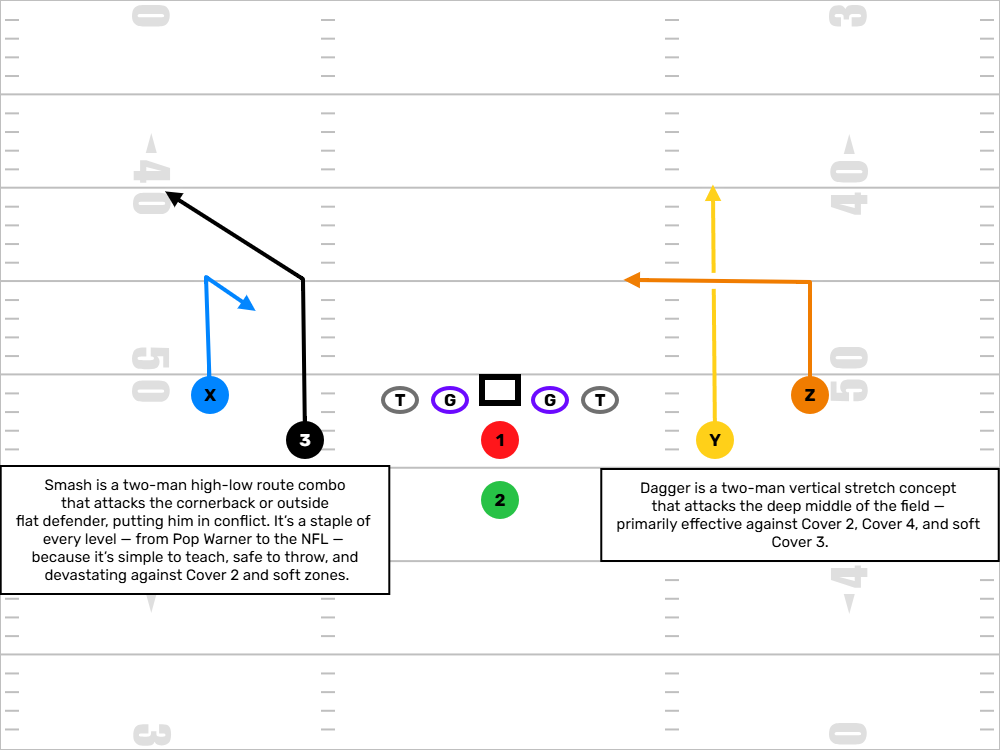
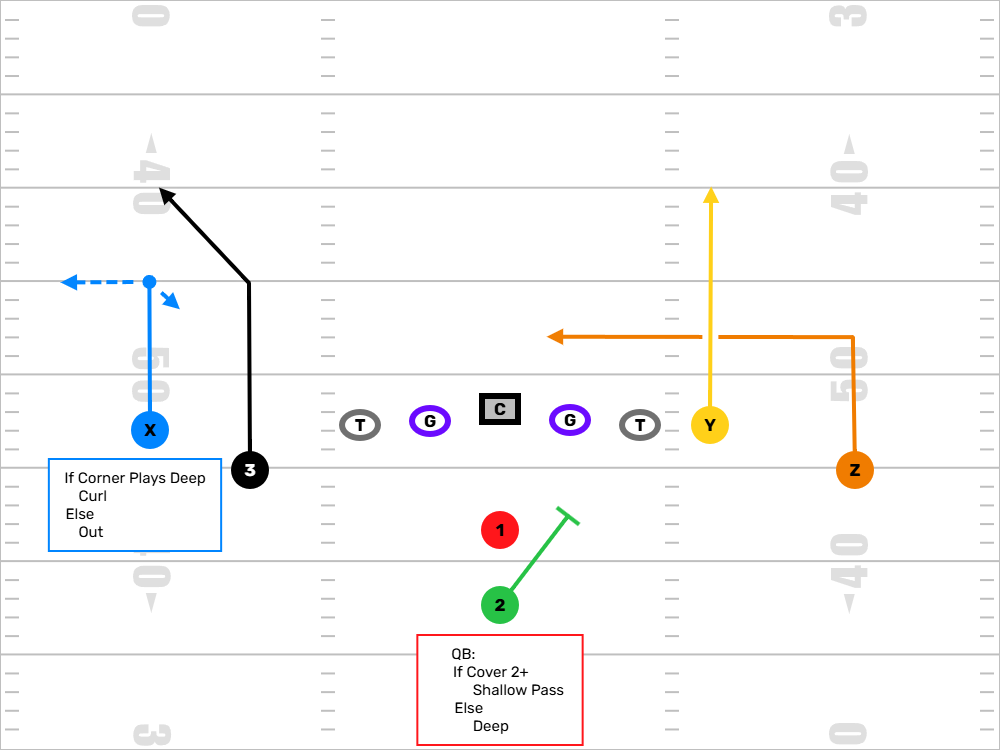
Added images

diff --git a/website/pages/football_101/offense/passingConcepts.html b/website/pages/football_101/offense/passingConcepts.html
@@ -87,14 +87,23 @@
 
                 <div class="passing-concept-card">
                     <div class="concept-diagram-placeholder">
-                        <img src="../../../images/passing_concepts/smash.png" alt="Smash Concept Diagram" style="max-width: 100%; height: auto; border-radius: 8px;" />
+                        <img src="../../../images/smashAndDagger.png" alt="Smash and Dagger Concept Diagram" style="max-width: 100%; height: auto; border-radius: 8px;" />
                     </div>                    
-                    <h3>Smash</h3>
+                    <h3>Smash & Dagger</h3>
                     <div class="concept-description">
-                        <p><strong>Overview:</strong> Smash is a simple but deadly 2-man route combo designed to beat Cover 2 and soft zones by high-lowing the cornerback.</p>
-                        <p><strong>How It Works:</strong> The outside WR runs a 5-yard hitch or curl. The inside receiver runs a corner route (10–12 yards then breaks at a 45° angle). You’re forcing the corner to choose—come up on the hitch or stay back on the corner.</p>
-                        <p><strong>Quarterback Read:</strong> Key the cornerback. If he drives on the hitch, throw the corner. If he bails, throw the hitch. Hit it on time and don’t wait.</p>
-                        <p><strong>Why We Use It:</strong> Easy concept, clear read. The Smash concept teaches spacing, leverage, and decision-making. It’s a staple because it works at every level.</p>
+                        <p><strong>Overview:</strong> Smash and Dagger work beautifully together as a mirrored full-field concept. Smash attacks the sideline and puts the cornerback in conflict. Dagger hits the heart of the defense — working the middle with a deep dig behind a clear-out. Together, they create a layered progression for the quarterback and force zone defenders to defend every inch of the field.</p>
+
+                        <p><strong>How Smash Works:</strong> On the front side, you’ve got Smash — the outside receiver runs a 5-yard hitch or curl, and the inside receiver runs a corner route, breaking out at 10–12 yards. This high-lows the cornerback: if he sinks, hit the hitch; if he drives, throw the corner. It's quick, it's clean, and it teaches great decision-making at the youth level.</p>
+
+                        <p><strong>How Dagger Works:</strong> On the backside, Dagger starts with the outside receiver running a clear-out go route to occupy the safety. The slot or inside receiver runs a hard dig at 10–12 yards. This route flashes right in the QB’s line of sight after the Smash side is read. It’s a killer versus Cover 2 and Cover 3 when linebackers widen to flats or hesitate underneath.</p>
+
+                        <p><strong>Quarterback Read:</strong> At the youth level, we don’t ask our quarterbacks to scan the entire field. Instead, we install this as a half-field read. Before the snap, we’ll tell the QB which side we’re working — Smash or Dagger. If it’s Smash, he keys the cornerback: if the corner sinks, throw the hitch; if the corner drives, hit the corner route over the top. If it’s Dagger, his eyes go to the dig — if the linebackers clear out, let it rip. Keep it simple, fast, and confident. One side, one decision, execute.</p>
+
+                        <p><strong>Why We Use It:</strong> This combo lets us stretch the defense vertically and horizontally on both sides. Smash gives us easy completions and forces corners to cover the flat and deep zone. Dagger lets us punish safeties and backers who overplay the Smash side. At the youth level, it teaches your QB to read one side, reset, and throw with confidence — while teaching your receivers how to create and find space.</p>
+
+                        <p><strong>Coaching Tip:</strong> If you're working with a young quarterback, don’t be afraid to tag Smash to just one side of the field early on. As they grow, you can layer in Dagger as the full-field read and teach them to manipulate defenders with their eyes and timing.</p>
+
+                        <p><strong>Bonus — Running Back Release:</strong> If the running back isn't needed for protection or there's no blitz threat, we love to tag him into the play side as a third option. He can release into the flat or swing out late, adding another layer to the Smash side read. Now, instead of just a high-low on the corner, you’re stressing the flat defender as well — turning a 2-man concept into a 3-man triangle that puts stress on every coverage rule. At the youth level, it’s a great way to get the ball to your back in space if the defense overcommits to covering routes downfield.</p>
                     </div>
                 </div>
 
@@ -113,7 +122,7 @@
 
                 <div class="passing-concept-card">
                     <div class="concept-diagram-placeholder">
-                        <img src="../../../images/four_verts.png" alt="Four Verticals Concept Diagram" style="max-width: 100%; height: auto; border-radius: 8px;" />
+                        <img src="../../../images/4Verts.png" alt="Four Verticals Concept Diagram" style="max-width: 100%; height: auto; border-radius: 8px;" />
                     </div>                    
                     <h3>Four Verticals</h3>
                     <div class="concept-description">
@@ -151,19 +160,6 @@
                 </div>
 
                 <div class="passing-concept-card">
-                     <div class="concept-diagram-placeholder">
-                        <img src="../../../images/dagger.png" alt="Dagger Concept Diagram" style="max-width: 100%; height: auto; border-radius: 8px;" />
-                    </div>                   
-                    <h3>Dagger</h3>
-                    <div class="concept-description">
-                        <p><strong>Overview:</strong> Dagger is an explosive play concept used to open up the deep dig route by clearing space with a vertical.</p>
-                        <p><strong>How It Works:</strong> The slot WR runs a go or clear route. The outside WR runs a deep dig (12–15 yards). A back or third WR occupies the flat or curls underneath to hold LBs.</p>
-                        <p><strong>Quarterback Read:</strong> Read the safety. If the middle is open, look to the dig coming under the vertical. If the safety squeezes the dig, hit the seam/go.</p>
-                        <p><strong>Why We Use It:</strong> It’s a big chunk concept. At the youth level, it may be simplified to shallower depths, but it still teaches how to work route leverage and space creation.</p>
-                    </div>
-                </div>
-
-                <div class="passing-concept-card">
                     <div class="concept-diagram-placeholder">
                         <img src="../../../images/slant_flat.png" alt="Slant Flat Concept Diagram" style="max-width: 100%; height: auto; border-radius: 8px;" />
                     </div>                    
@@ -177,29 +173,35 @@
                 </div>
 
                 <div class="passing-concept-card">
-                <div class="concept-diagram-placeholder">
-                    <img src="../../../images/shallow_cross.png" alt="Shallow Cross Concept Diagram" style="max-width: 100%; height: auto; border-radius: 8px;" />
-                </div>                    
-                <h3>Shallow Cross</h3>
-                <div class="concept-description">
-                    <p><strong>Overview:</strong> Shallow Cross is designed to beat man coverage and create high-low reads with crossing and dig routes.</p>
-                    <p><strong>How It Works:</strong> One receiver runs a shallow cross across the field at 3–5 yards. Another runs a dig or curl at 10–12 yards. A third may run a vertical to stretch the defense.</p>
-                    <p><strong>Quarterback Read:</strong> Start shallow, then look to dig. If everyone drops, check it down. It’s a triangle read.</p>
-                    <p><strong>Why We Use It:</strong> Great at breaking defenders’ rules and easy to complete for yards after the catch. Teaches WRs how to run through traffic and QBs how to progress across the field.</p>
-                </div>
+                    <div class="concept-diagram-placeholder">
+                        <img src="../../../images/shallow_cross.png" alt="Shallow Cross Concept Diagram" style="max-width: 100%; height: auto; border-radius: 8px;" />
+                     </div>                    
+                    <h3>Shallow Cross</h3>
+                    <div class="concept-description">
+                        <p><strong>Overview:</strong> Shallow Cross is designed to beat man coverage and create high-low reads with crossing and dig routes.</p>
+                        <p><strong>How It Works:</strong> One receiver runs a shallow cross across the field at 3–5 yards. Another runs a dig or curl at 10–12 yards. A third may run a vertical to stretch the defense.</p>
+                        <p><strong>Quarterback Read:</strong> Start shallow, then look to dig. If everyone drops, check it down. It’s a triangle read.</p>
+                        <p><strong>Why We Use It:</strong> Great at breaking defenders’ rules and easy to complete for yards after the catch. Teaches WRs how to run through traffic and QBs how to progress across the field.</p>
+                    </div>
                 </div>
 
                 <div class="passing-concept-card">
-                    <div class="concept-diagram-placeholder">Play Diagram Goes Here</div>
-                    <h3>Double China</h3>
-                    <div class="concept-description"></div>
+                    <div class="concept-diagram-placeholder">
+                        <img src="../../../images/doubleChina.png" alt="Shallow Cross Concept Diagram" style="max-width: 100%; height: auto; border-radius: 8px;" />
+                    </div>                    
+                    <h3>Double China</h3> 
+                    <div class="concept-description">
+                        <p><strong>Overview:</strong> Double Chinas is a mirrored passing concept built to beat man or zone by putting stress on inside defenders. Both sides run tight, inside-breaking routes — think double slants or short digs — paired with verticals to clear space. It’s simple, it’s balanced, and it works at all levels.</p>
+
+                        <p><strong>How It Works:</strong> Each side of the formation runs the same combo: the outside receiver stems vertically and breaks inside at 5–7 yards on a deep slant or dig (the "china" route), while the slot or inside receiver pushes vertical and either clears out with a go or bends outside to occupy the safety. It’s a strong man-beater and works against Cover 2 or Cover 3 if the timing and spacing are right.</p>
+
+                        <p><strong>Quarterback Read:</strong> At the youth level, this is a front-side concept. Pick a side pre-snap based on leverage or matchup — typically the side with the best spacing or cleanest release. The QB is keying the inside defender. If that defender widens with the vertical, throw the dig. If he sits or drifts inside, hit the vertical over the top. It’s a one-two decision, built for rhythm throws.</p>
+
+                        <p><strong>Why We Use It:</strong> This is a concept that teaches spacing, route discipline, and how to read leverage. It’s great against man because you get separation on those inside-breaking routes, and against zone, it puts defenders in a bind. At the youth level, it also teaches your QB to be decisive with half-field reads and gives you a balanced way to attack both sides of the field.</p>
+                    </div>
                 </div>
             </div>
         </section>
-
-        <!-- Add more sections as needed -->
-
-        </div> <!-- Corrected closing tag for div class="container" -->
     </main>
 
     <div w3-include-html="../../../includes/footer.html"></div>
